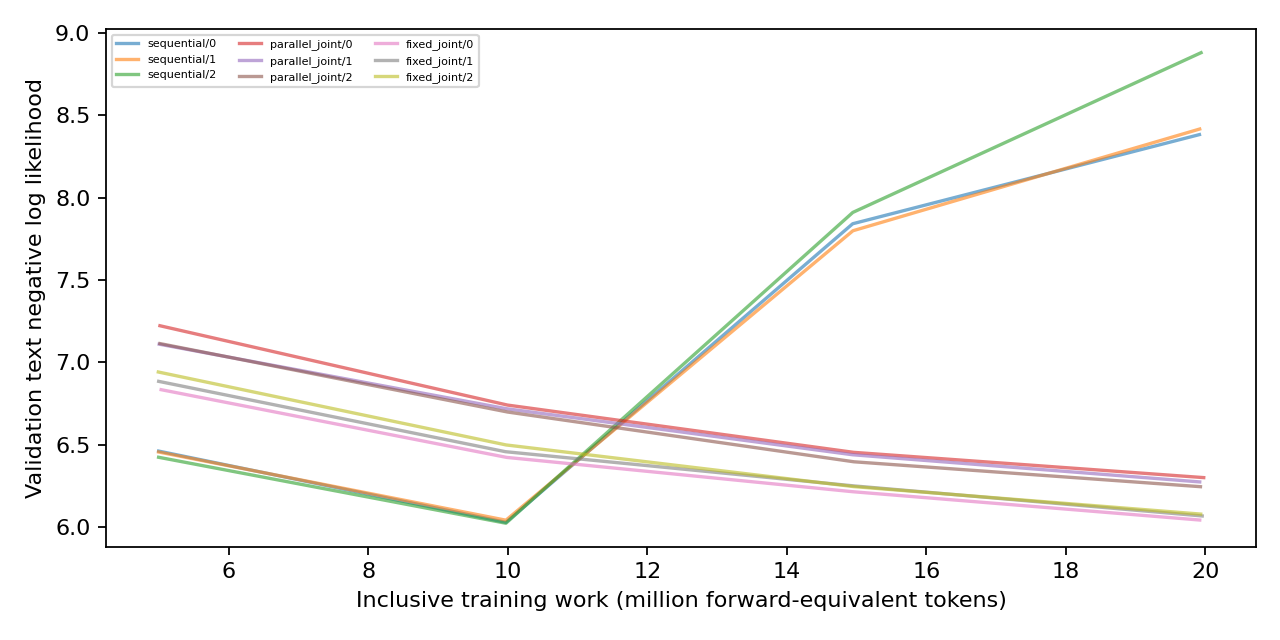
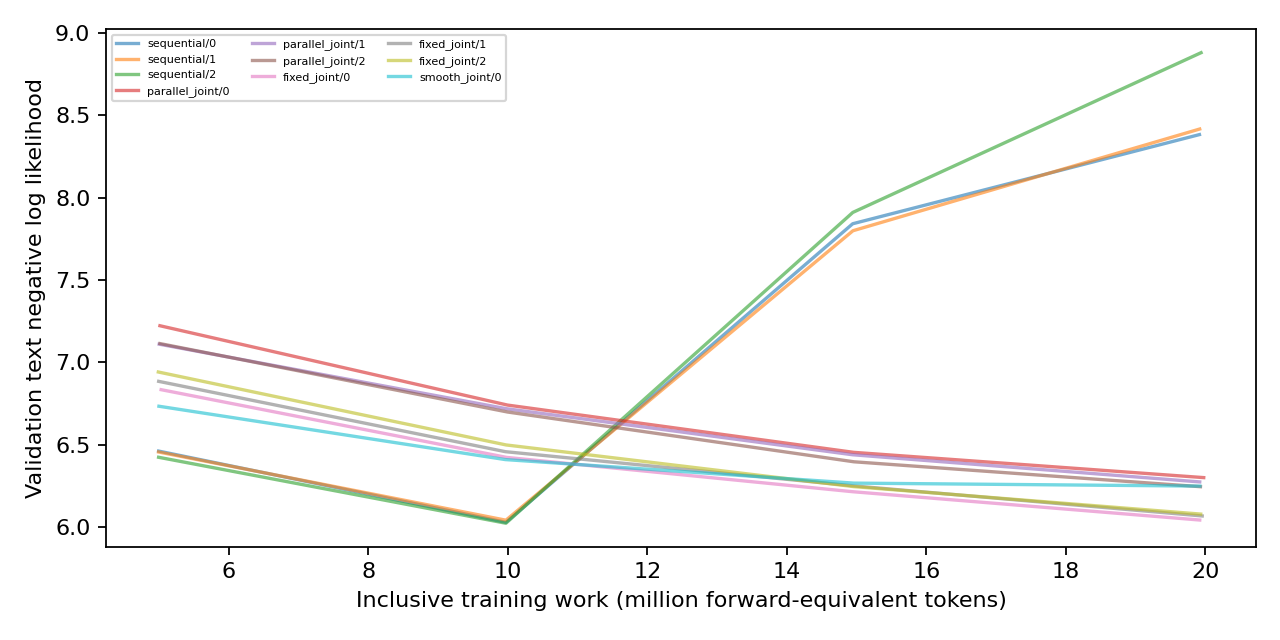
Report verified unified-training pilot progress

diff --git a/experiments/01_scratch_joint_objectives/results.md b/experiments/01_scratch_joint_objectives/results.md
@@ -13,7 +13,7 @@
 | fixed_joint | 0 | complete | 19.922 | 0.2449 [0.2281, 0.2626] | 0.0030 [0.0012, 0.0078] | 6.0072 [5.9779, 6.0383] | 0.5039 [0.4431, 0.5646] / 0.4922 [0.4315, 0.5531] |
 | fixed_joint | 1 | complete | 19.957 | 0.2563 [0.2392, 0.2743] | 0.0083 [0.0047, 0.0149] | 6.0337 [6.0050, 6.0651] | 0.5000 [0.4392, 0.5608] / 0.5469 [0.4857, 0.6067] |
 | fixed_joint | 2 | complete | 19.936 | 0.2449 [0.2281, 0.2626] | 0.0023 [0.0008, 0.0067] | 6.0435 [6.0148, 6.0742] | 0.5117 [0.4508, 0.5723] / 0.5312 [0.4701, 0.5915] |
-| smooth_joint | 0 | pending | unavailable | unavailable | unavailable | unavailable | unavailable |
+| smooth_joint | 0 | complete | 19.925 | 0.2513 [0.2342, 0.2691] | 0.0030 [0.0012, 0.0078] | 6.2059 [6.1783, 6.2351] | 0.4805 [0.4200, 0.5415] / 0.4922 [0.4315, 0.5531] |
 | smooth_joint | 1 | pending | unavailable | unavailable | unavailable | unavailable | unavailable |
 | smooth_joint | 2 | pending | unavailable | unavailable | unavailable | unavailable | unavailable |
 | aioli_objective | 0 | pending | unavailable | unavailable | unavailable | unavailable | unavailable |
@@ -33,7 +33,7 @@ NLL = negative log likelihood; preference raw ordering is the preference endpoin
 
 Intervals: 95% Wilson binary-item score, conditional on each trained model; p-val=n/a (no hypothesis test). Three seeds do not establish universal superiority. Aioli, CHORD (Controllable Harmonization of On- and Off-Policy Reinforcement Learning via Dynamic Weighting), and RPT (Reinforcement Pre-Training) are declared adaptations; exact CHERRY-RL identity remains unresolved.
 
-Complete: 9/24. See `expt_v1/PROTOCOL.md` and the program review reconciliation.
+Complete: 10/24. See `expt_v1/PROTOCOL.md` and the program review reconciliation.
 
 Seed uncertainty, two-stage seed/item intervals, initial-checkpoint changes and all paired comparisons: `expt_v1/analysis.json`. Missing trained seeds remain missing with separate accuracy sensitivity bounds. p-val=n/a throughout; no formal superiority verdict.
 

diff --git a/experiments/00_program/FINAL_STATUS.md b/experiments/00_program/FINAL_STATUS.md
@@ -1,6 +1,6 @@
 # Full-program status
 
-Verified cells: 9/48; failed: 0; interrupted: 0; pending: 39; unstarted at global bound: 0.
+Verified cells: 10/48; failed: 0; interrupted: 0; pending: 38; unstarted at global bound: 0.
 
 Full-program execution is incomplete. Required plan and implementation findings are reconciled; see acceptance.json.
 Results and uncertainty are in each experiment folder; no universal-superiority claim.
